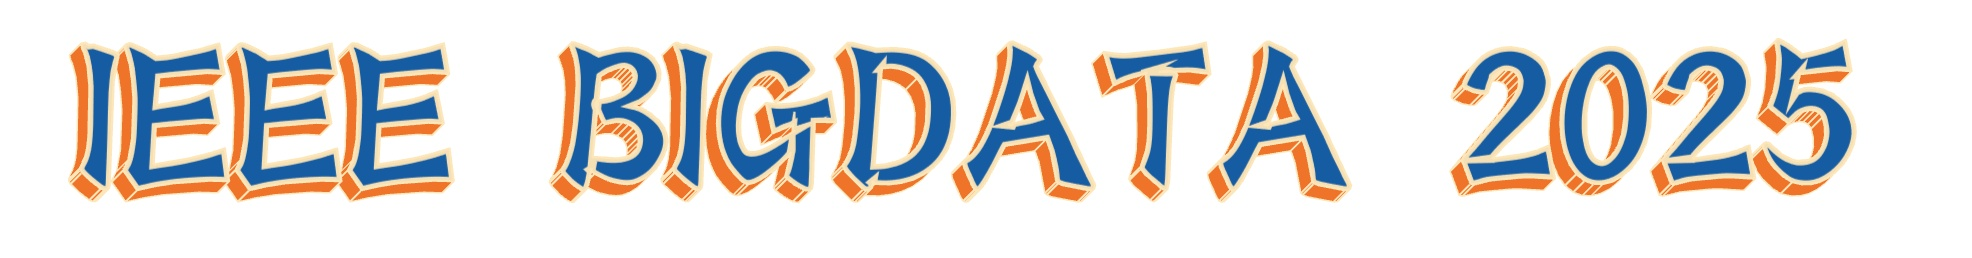
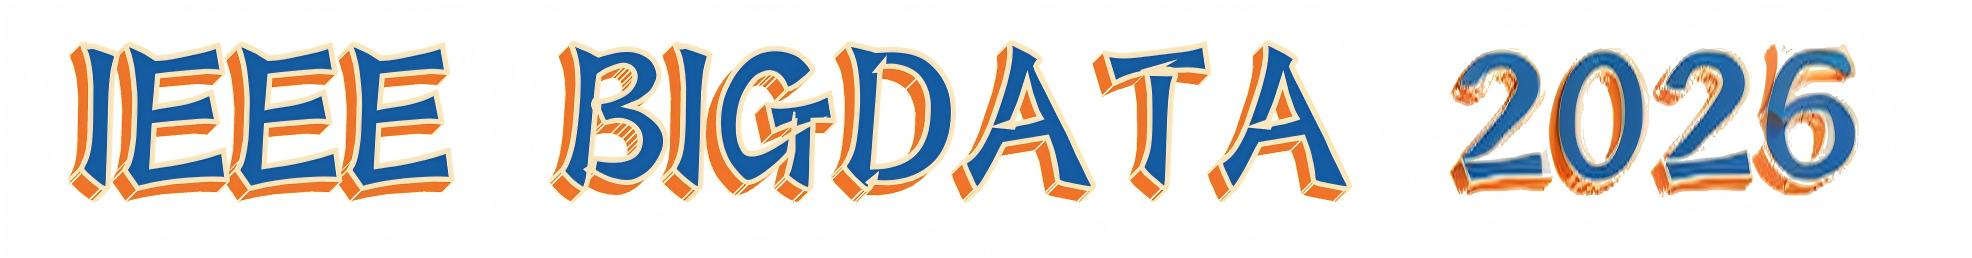
Update workshop title, TBA placeholders for links/schedule, align dates with IEEE BigData 2026 official timeline

diff --git a/Submissions.html b/Submissions.html
@@ -108,24 +108,24 @@
     </style>
 
     <!-- Begin Jekyll SEO tag v2.8.0 -->
-    <title>The 4th International Workshop on Exploring Cutting-edge Data Mining: Applications of Infrared Target Detection and Large Language Models | held
+    <title>The 4th International Workshop on Trustworthy and Aligned AI: Governance, Controllability and Safety | held
         with 2026 IEEE International Conference on Big Data</title>
     <meta name="generator" content="Jekyll v3.9.3" />
     <meta property="og:title"
-        content="The 4th International Workshop on Exploring Cutting-edge Data Mining: Applications of Infrared Target Detection and Large Language Models" />
+        content="The 4th International Workshop on Trustworthy and Aligned AI: Governance, Controllability and Safety" />
     <meta property="og:locale" content="en_US" />
     <meta name="description" content="held with 2026 IEEE International Conference on Big Data" />
     <meta property="og:description" content="held with 2026 IEEE International Conference on Big Data" />
     <link rel="canonical" href="https://rhwbrhw.github.io/" />
     <meta property="og:url" content="https://rhwbrhw.github.io/" />
     <meta property="og:site_name"
-        content="The 4th International Workshop on Exploring Cutting-edge Data Mining: Applications of Infrared Target Detection and Large Language Models" />
+        content="The 4th International Workshop on Trustworthy and Aligned AI: Governance, Controllability and Safety" />
     <meta property="og:type" content="website" />
     <meta name="twitter:card" content="summary" />
     <meta property="twitter:title"
-        content="The 4th International Workshop on Exploring Cutting-edge Data Mining: Applications of Infrared Target Detection and Large Language Models" />
+        content="The 4th International Workshop on Trustworthy and Aligned AI: Governance, Controllability and Safety" />
     <script type="application/ld+json">
-{"@context":"https://schema.org","@type":"WebSite","description":"held with 2026 IEEE International Conference on Big Data","headline":"The 4th International Workshop on Exploring Cutting-edge Data Mining: Applications of Infrared Target Detection and Large Language Models","name":"The 4th International Workshop on Exploring Cutting-edge Data Mining: Applications of Infrared Target Detection and Large Language Models","url":"https://rhwbrhw.github.io/"}</script>
+{"@context":"https://schema.org","@type":"WebSite","description":"held with 2026 IEEE International Conference on Big Data","headline":"The 4th International Workshop on Trustworthy and Aligned AI: Governance, Controllability and Safety","name":"The 4th International Workshop on Trustworthy and Aligned AI: Governance, Controllability and Safety","url":"https://rhwbrhw.github.io/"}</script>
     <!-- End Jekyll SEO tag -->
 
 </head>
@@ -151,7 +151,7 @@
     <div id="header_wrap" class="outer">
         <header class="inner">
 
-            <h1 id="project_title">The 4th International Workshop on Exploring Cutting-edge Data Mining: Applications of Infrared Target Detection and Large Language Models</h1>
+            <h1 id="project_title">The 4th International Workshop on Trustworthy and Aligned AI: Governance, Controllability and Safety</h1>
 
             <!-- <script src = "jquery-3.6.0.js"></script> -->
 
@@ -322,66 +322,29 @@
                         <li>Only web-based submissions are allowed.</li>
                         <li>All submission deadlines are Anywhere on Earth (AOE).</li>
                         <li>Please submit your paper via the submission system.</li>
-                        <li>Submission link: <a
-                                href="https://wi-lab.com/cyberchair/2026/bigdata26/scripts/ws_submit.php">Cyberchair
-                                submissions website</a>.</li>
+                        <li>Submission link: TBA.</li>
                     </ul>
 
                     <h3 id="important-dates">Important Dates</h3>
 
                     <ul>
-                        <li>Oct. 1, 2026: Electronic submission of full papers</li>
-                        <li>Oct. 30, 2026: Notification of paper acceptance</li>
-                        <li>Nov. 10, 2026: Camera-ready of accepted papers</li>
+                        <li>Aug. 21, 2026: Electronic submission of full papers</li>
+                        <li>Oct. 24, 2026: Notification of paper acceptance</li>
+                        <li>Nov. 14, 2026: Camera-ready of accepted papers</li>
                         <li>Nov. 23, 2026: Registration Account</li>
-                        <li>Dec. 8-11, 2026: IEEE Big Data Conference</li>
-                        <li>Dec. 8-11, 2026: Workshop</li>
+                        <li>Dec. 14-17, 2026: IEEE Big Data Conference</li>
+                        <li>Dec. 14-17, 2026: Workshop</li>
                     </ul>
 
                     <h3 id="schedule">Schedule</h3>
                     <p>This meeting will be held online, and the meeting will take place on ZOOM.</p>
 
-                    <p>Meeting Address: <a href="https://us05web.zoom.us/j/85791139689?pwd=YJhCyyN82YNzGWWvaTwfqTT9MihCjd.1">https://us05web.zoom.us/j/85791139689?pwd=YJhCyyN82YNzGWWvaTwfqTT9MihCjd.1</a></p>
+                    <p>Meeting Address: TBA</p>
 
-                    <p>Password: 0Wj3sK</p>
+                    <p>Password: TBA</p>
 
-                    <p>The meeting will start at 9:00 AM Eastern Time, Dec.11, 2026.</p>
-                    <table>
-                    <thead>
-                        <tr>
-                        <th>Time</th>
-                        <th>Session</th>
-                        <th>Speaker(s)</th>
-                        </tr>
-                    </thead>
-                    <tbody>
-                        <tr>
-                        <td>9:00 AM - 9:30 AM</td>
-                        <td>Biased Random Walks with multiple-particle for Mining vital Clique Structures in Higher-Order Networks</td>
-                        <td>Jinyang Lv</td>
-                        </tr>
-                        <tr>
-                        <td>9:35 AM - 10:05 AM</td>
-                        <td>Med-Align: Zero-Shot Histopathological Image Classification via Adaptive Multimodal Feature Alignment</td>
-                        <td>Xueyan Bai</td>
-                        </tr>
-                        <tr>
-                        <td>10:10 AM - 10:40 AM</td>
-                        <td>KTD-Net: A Synergistic Diffusion Framework with Gated Knowledge-Transfer Transformer for Abdominal Multi-Organ Segmentation in CT Images</td>
-                        <td>Kang Fu</td>
-                        </tr>
-                        <tr>
-                        <td>10:45 AM - 11:15 AM</td>
-                        <td>Met-Diff: A Diffusion Model-based with Multi-Organ Segmentation in Abdominal CT of Metabolic Syndrome Patients</td>
-                        <td>Jinkui Li</td>
-                        </tr>
-                        <tr>
-                        <td>11:20 AM - 11:50 AM</td>
-                        <td>Interpretable Infrared Target Detection via Multi-Scale Robust Principle Component Analysis</td>
-                        <td>Zhanrong Zhao</td>
-                        </tr>
-                    </tbody>
-                    </table>
+                    <p>The meeting time is TBA.</p>
+                    <p>TBA</p>
 
                     <h3 id="Registration">Registration</h3>
                     <p>Each paper needs to have at least one full registration in order to get your paper published in
@@ -391,15 +354,12 @@
                         normally take about 10 days to actually transfer the fund from your bank account to the IEEE
                         BigData 2026 account, make sure your payment is received by Nov 22, otherwise your paper won't
                         be published in the conference proceedings. Pls follow the
-                        <a
-                            href='https://ieeebigdata2026.scimeeting.cn/en/web/index/31202_2699395'>registration
-                            link</a> from for the online registration
+                        registration link: TBA for the online registration
                     </p>
 
                     <h3 id="reserved">Reserved Rooms</h3>
                     <p>The conference has reserved rooms with discounted rate for the participants. To book the hotel
-                        rooms using the conference discount rate, please follow the <a
-                            href='https://mm.scimeeting.cn/en/web/index/31202_2699393'>links</a>
+                        rooms using the conference discount rate, please follow the links: TBA
                     </p>
 
                     <h3 id="travel awards">Travel Awards</h3>
@@ -419,7 +379,7 @@
                     <h3 id="notice">Notice</h3>
                     <ul>
                         <li>
-                            <p>final camera-ready paper submission deadline is Nov 26, 2026, pls don't miss the
+                            <p>final camera-ready paper submission deadline is Nov 14, 2026, pls don't miss the
                                 deadline, otherwise your paper won't be published in the conference proceedings.
 <!--                                 , Pls
                                 follow the URL for the <a

diff --git a/index.html b/index.html
@@ -109,20 +109,20 @@
           </style>
         
         <!-- Begin Jekyll SEO tag v2.8.0 -->
-        <title> The 4th International Workshop on Exploring Cutting-edge Data Mining: Applications of Infrared Target Detection and Large Language Models | held with 2026 IEEE International Conference on Big Data</title>
+        <title> The 4th International Workshop on Trustworthy and Aligned AI: Governance, Controllability and Safety | held with 2026 IEEE International Conference on Big Data</title>
         <meta name="generator" content="Jekyll v3.9.3" />
-        <meta property="og:title" content=" The 4th International Workshop on Exploring Cutting-edge Data Mining: Applications of Infrared Target Detection and Large Language Models" />
+        <meta property="og:title" content=" The 4th International Workshop on Trustworthy and Aligned AI: Governance, Controllability and Safety" />
         <meta property="og:locale" content="en_US" />
         <meta name="description" content="held with 2026 IEEE International Conference on Big Data" />
         <meta property="og:description" content="held with 2026 IEEE International Conference on Big Data" />
         <link rel="canonical" href="https://rhwbrhw.github.io/" />
         <meta property="og:url" content="https://rhwbrhw.github.io/" />
-        <meta property="og:site_name" content=" The 4th International Workshop on Exploring Cutting-edge Data Mining: Applications of Infrared Target Detection and Large Language Models" />
+        <meta property="og:site_name" content=" The 4th International Workshop on Trustworthy and Aligned AI: Governance, Controllability and Safety" />
         <meta property="og:type" content="website" />
         <meta name="twitter:card" content="summary" />
-        <meta property="twitter:title" content=" The 4th International Workshop on Exploring Cutting-edge Data Mining: Applications of Infrared Target Detection and Large Language Models" />
+        <meta property="twitter:title" content=" The 4th International Workshop on Trustworthy and Aligned AI: Governance, Controllability and Safety" />
         <script type="application/ld+json">
-        {"@context":"https://schema.org","@type":"WebSite","description":"held with 2026 IEEE International Conference on Big Data","headline":" The 4th International Workshop on Exploring Cutting-edge Data Mining: Applications of Infrared Target Detection and Large Language Models","name":" The 4th International Workshop on Exploring Cutting-edge Data Mining: Applications of Infrared Target Detection and Large Language Models","url":"https://rhwbrhw.github.io/"}</script>
+        {"@context":"https://schema.org","@type":"WebSite","description":"held with 2026 IEEE International Conference on Big Data","headline":" The 4th International Workshop on Trustworthy and Aligned AI: Governance, Controllability and Safety","name":" The 4th International Workshop on Trustworthy and Aligned AI: Governance, Controllability and Safety","url":"https://rhwbrhw.github.io/"}</script>
         <!-- End Jekyll SEO tag -->
         
           </head>
@@ -148,7 +148,7 @@
             <div id="header_wrap" class="outer">
                 <header class="inner">
         
-                  <h1 id="project_title"> The 4th International Workshop on Exploring Cutting-edge Data Mining: Applications of Infrared Target Detection and Large Language Models</h1>
+                  <h1 id="project_title"> The 4th International Workshop on Trustworthy and Aligned AI: Governance, Controllability and Safety</h1>
         
                   <!-- <script src = "jquery-3.6.0.js"></script> -->
         

diff --git a/keynotespeaker.html b/keynotespeaker.html
@@ -108,24 +108,24 @@
     </style>
 
     <!-- Begin Jekyll SEO tag v2.8.0 -->
-    <title>The 4th International Workshop on Exploring Cutting-edge Data Mining: Applications of Infrared Target Detection and Large Language Models | held
+    <title>The 4th International Workshop on Trustworthy and Aligned AI: Governance, Controllability and Safety | held
         with 2026 IEEE International Conference on Big Data</title>
     <meta name="generator" content="Jekyll v3.9.3" />
     <meta property="og:title"
-        content="The 4th International Workshop on Exploring Cutting-edge Data Mining: Applications of Infrared Target Detection and Large Language Models" />
+        content="The 4th International Workshop on Trustworthy and Aligned AI: Governance, Controllability and Safety" />
     <meta property="og:locale" content="en_US" />
     <meta name="description" content="held with 2026 IEEE International Conference on Big Data" />
     <meta property="og:description" content="held with 2026 IEEE International Conference on Big Data" />
     <link rel="canonical" href="https://rhwbrhw.github.io/" />
     <meta property="og:url" content="https://rhwbrhw.github.io/" />
     <meta property="og:site_name"
-        content="The 4th International Workshop on Exploring Cutting-edge Data Mining: Applications of Infrared Target Detection and Large Language Models" />
+        content="The 4th International Workshop on Trustworthy and Aligned AI: Governance, Controllability and Safety" />
     <meta property="og:type" content="website" />
     <meta name="twitter:card" content="summary" />
     <meta property="twitter:title"
-        content="The 4th International Workshop on Exploring Cutting-edge Data Mining: Applications of Infrared Target Detection and Large Language Models" />
+        content="The 4th International Workshop on Trustworthy and Aligned AI: Governance, Controllability and Safety" />
     <script type="application/ld+json">
-        {"@context":"https://schema.org","@type":"WebSite","description":"held with 2026 IEEE International Conference on Big Data","headline":"The 4th International Workshop on Exploring Cutting-edge Data Mining: Applications of Infrared Target Detection and Large Language Models","name":"The 4th International Workshop on Exploring Cutting-edge Data Mining: Applications of Infrared Target Detection and Large Language Models","url":"https://rhwbrhw.github.io/"}</script>
+        {"@context":"https://schema.org","@type":"WebSite","description":"held with 2026 IEEE International Conference on Big Data","headline":"The 4th International Workshop on Trustworthy and Aligned AI: Governance, Controllability and Safety","name":"The 4th International Workshop on Trustworthy and Aligned AI: Governance, Controllability and Safety","url":"https://rhwbrhw.github.io/"}</script>
     <!-- End Jekyll SEO tag -->
 
 </head>
@@ -151,7 +151,7 @@
     <div id="header_wrap" class="outer">
         <header class="inner">
 
-            <h1 id="project_title">The 4th International Workshop on Exploring Cutting-edge Data Mining: Applications of Infrared Target Detection and Large Language Models</h1>
+            <h1 id="project_title">The 4th International Workshop on Trustworthy and Aligned AI: Governance, Controllability and Safety</h1>
 
             <!-- <script src = "jquery-3.6.0.js"></script> -->
 

diff --git a/pastworkshopd.html b/pastworkshopd.html
@@ -108,24 +108,24 @@
     </style>
 
     <!-- Begin Jekyll SEO tag v2.8.0 -->
-    <title>The 4th International Workshop on Exploring Cutting-edge Data Mining: Applications of Infrared Target Detection and Large Language Models | held
+    <title>The 4th International Workshop on Trustworthy and Aligned AI: Governance, Controllability and Safety | held
         with 2026 IEEE International Conference on Big Data</title>
     <meta name="generator" content="Jekyll v3.9.3" />
     <meta property="og:title"
-        content="The 4th International Workshop on Exploring Cutting-edge Data Mining: Applications of Infrared Target Detection and Large Language Models" />
+        content="The 4th International Workshop on Trustworthy and Aligned AI: Governance, Controllability and Safety" />
     <meta property="og:locale" content="en_US" />
     <meta name="description" content="held with 2026 IEEE International Conference on Big Data" />
     <meta property="og:description" content="held with 2026 IEEE International Conference on Big Data" />
     <link rel="canonical" href="https://rhwbrhw.github.io/" />
     <meta property="og:url" content="https://rhwbrhw.github.io/" />
     <meta property="og:site_name"
-        content="The 4th International Workshop on Exploring Cutting-edge Data Mining: Applications of Infrared Target Detection and Large Language Models" />
+        content="The 4th International Workshop on Trustworthy and Aligned AI: Governance, Controllability and Safety" />
     <meta property="og:type" content="website" />
     <meta name="twitter:card" content="summary" />
     <meta property="twitter:title"
-        content="The 4th International Workshop on Exploring Cutting-edge Data Mining: Applications of Infrared Target Detection and Large Language Models" />
+        content="The 4th International Workshop on Trustworthy and Aligned AI: Governance, Controllability and Safety" />
     <script type="application/ld+json">
-        {"@context":"https://schema.org","@type":"WebSite","description":"held with 2026 IEEE International Conference on Big Data","headline":"The 4th International Workshop on Exploring Cutting-edge Data Mining: Applications of Infrared Target Detection and Large Language Models","name":"The 4th International Workshop on Exploring Cutting-edge Data Mining: Applications of Infrared Target Detection and Large Language Models","url":"https://rhwbrhw.github.io/"}</script>
+        {"@context":"https://schema.org","@type":"WebSite","description":"held with 2026 IEEE International Conference on Big Data","headline":"The 4th International Workshop on Trustworthy and Aligned AI: Governance, Controllability and Safety","name":"The 4th International Workshop on Trustworthy and Aligned AI: Governance, Controllability and Safety","url":"https://rhwbrhw.github.io/"}</script>
     <!-- End Jekyll SEO tag -->
 
 </head>
@@ -151,7 +151,7 @@
     <div id="header_wrap" class="outer">
         <header class="inner">
 
-            <h1 id="project_title">The 4th International Workshop on Exploring Cutting-edge Data Mining: Applications of Infrared Target Detection and Large Language Models</h1>
+            <h1 id="project_title">The 4th International Workshop on Trustworthy and Aligned AI: Governance, Controllability and Safety</h1>
 
             <!-- <script src = "jquery-3.6.0.js"></script> -->
 

diff --git a/Organizers.html b/Organizers.html
@@ -112,24 +112,24 @@
   </style>
 
   <!-- Begin Jekyll SEO tag v2.8.0 -->
-  <title>The 4th International Workshop on Exploring Cutting-edge Data Mining: Applications of Infrared Target Detection and Large Language Models | held
+  <title>The 4th International Workshop on Trustworthy and Aligned AI: Governance, Controllability and Safety | held
     with 2026 IEEE International Conference on Big Data</title>
   <meta name="generator" content="Jekyll v3.9.3" />
   <meta property="og:title"
-    content="The 4th International Workshop on Exploring Cutting-edge Data Mining: Applications of Infrared Target Detection and Large Language Models" />
+    content="The 4th International Workshop on Trustworthy and Aligned AI: Governance, Controllability and Safety" />
   <meta property="og:locale" content="en_US" />
   <meta name="description" content="held with 2026 IEEE International Conference on Big Data" />
   <meta property="og:description" content="held with 2026 IEEE International Conference on Big Data" />
   <link rel="canonical" href="https://rhwbrhw.github.io/" />
   <meta property="og:url" content="https://rhwbrhw.github.io/" />
   <meta property="og:site_name"
-    content="The 4th International Workshop on Exploring Cutting-edge Data Mining: Applications of Infrared Target Detection and Large Language Models" />
+    content="The 4th International Workshop on Trustworthy and Aligned AI: Governance, Controllability and Safety" />
   <meta property="og:type" content="website" />
   <meta name="twitter:card" content="summary" />
   <meta property="twitter:title"
-    content="The 4th International Workshop on Exploring Cutting-edge Data Mining: Applications of Infrared Target Detection and Large Language Models" />
+    content="The 4th International Workshop on Trustworthy and Aligned AI: Governance, Controllability and Safety" />
   <script type="application/ld+json">
-{"@context":"https://schema.org","@type":"WebSite","description":"held with 2026 IEEE International Conference on Big Data","headline":"The 4th International Workshop on Exploring Cutting-edge Data Mining: Applications of Infrared Target Detection and Large Language Models","name":"The 4th International Workshop on Exploring Cutting-edge Data Mining: Applications of Infrared Target Detection and Large Language Models","url":"https://rhwbrhw.github.io/"}</script>
+{"@context":"https://schema.org","@type":"WebSite","description":"held with 2026 IEEE International Conference on Big Data","headline":"The 4th International Workshop on Trustworthy and Aligned AI: Governance, Controllability and Safety","name":"The 4th International Workshop on Trustworthy and Aligned AI: Governance, Controllability and Safety","url":"https://rhwbrhw.github.io/"}</script>
   <!-- End Jekyll SEO tag -->
 
 </head>
@@ -155,7 +155,7 @@
   <div id="header_wrap" class="outer">
     <header class="inner">
 
-      <h1 id="project_title">The 4th International Workshop on Exploring Cutting-edge Data Mining: Applications of Infrared Target Detection and Large Language Models</h1>
+      <h1 id="project_title">The 4th International Workshop on Trustworthy and Aligned AI: Governance, Controllability and Safety</h1>
 
       <!-- <script src = "jquery-3.6.0.js"></script> -->
 
